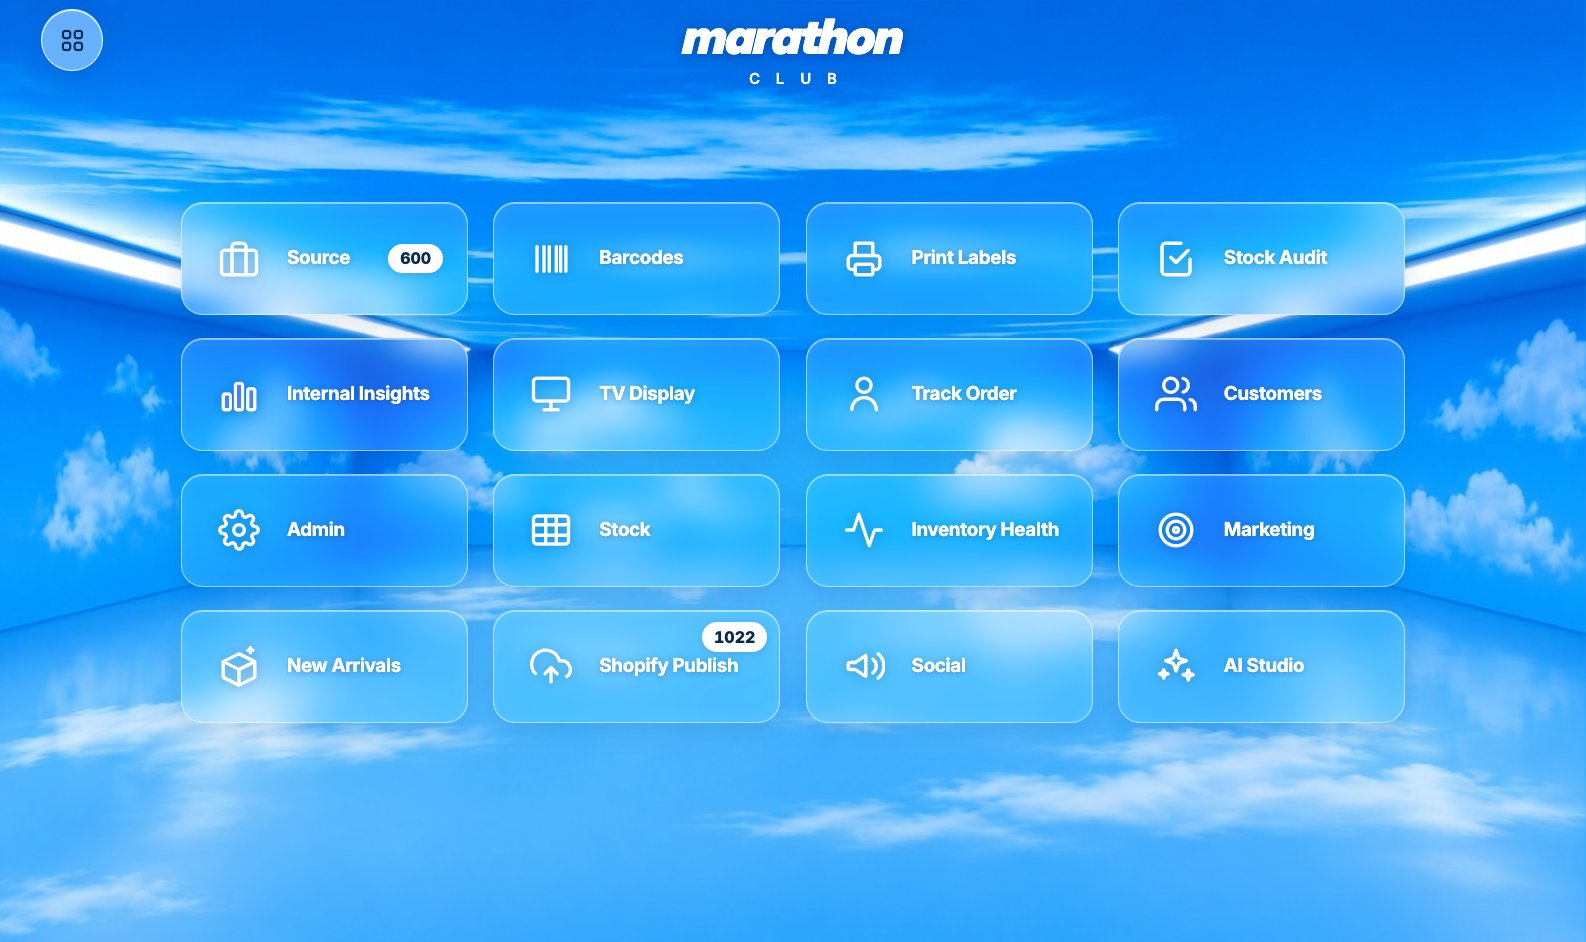
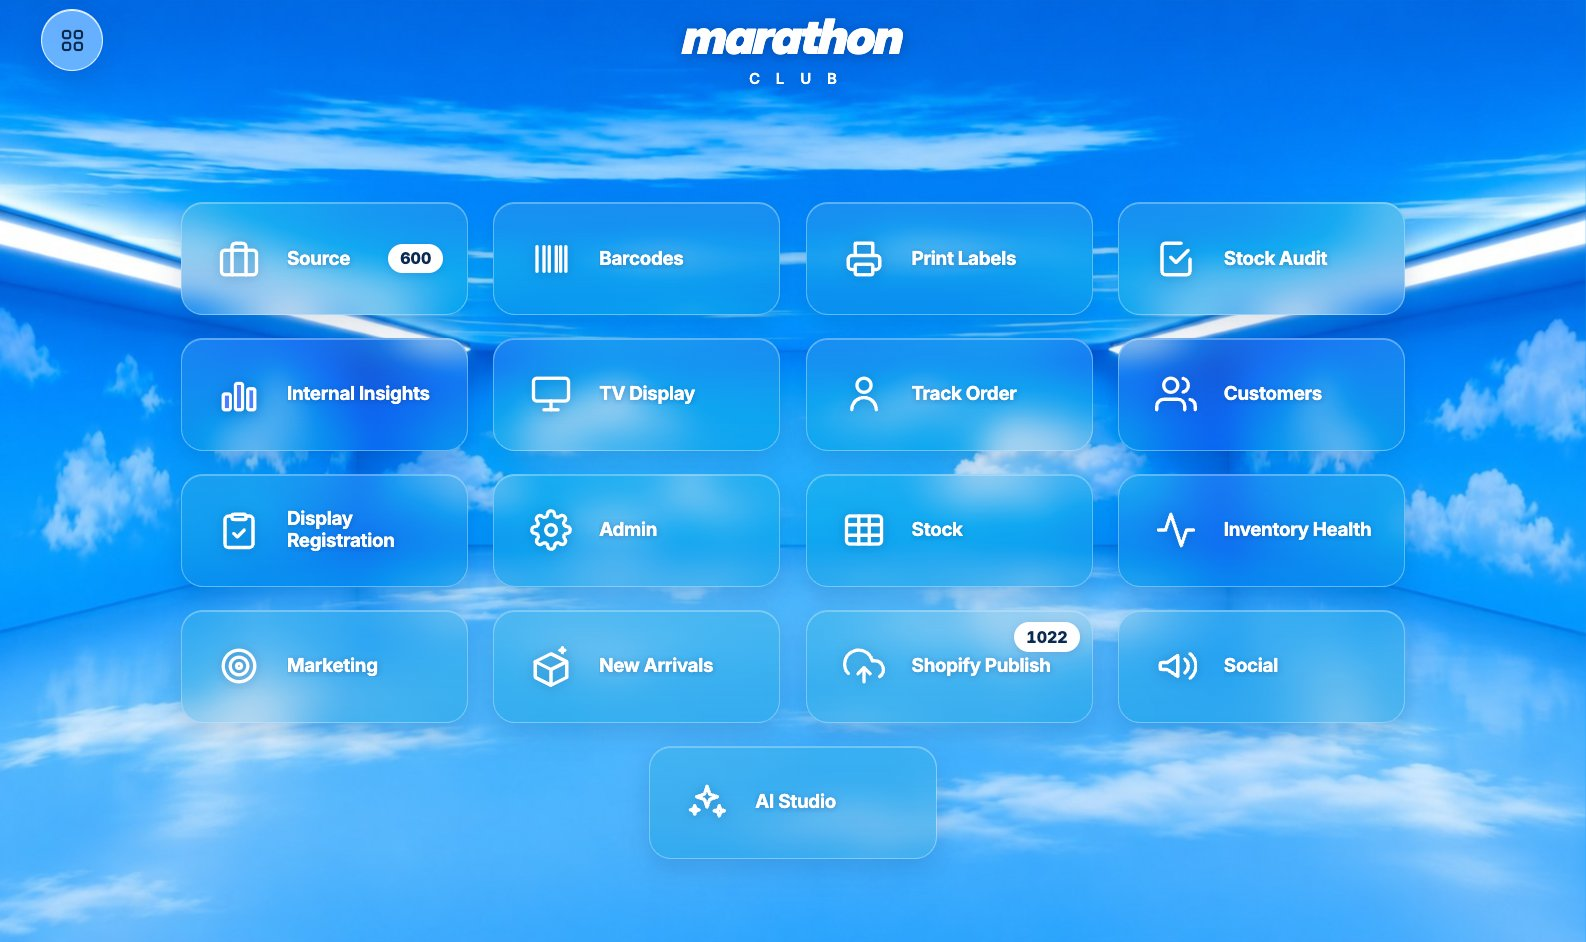
Admin view: Display Registration as a tile; ice-cold dimmed glass; last row centred
Same gate and screen as the old live card. Presentation only.

diff --git a/src/components/sky/SkyHome.jsx b/src/components/sky/SkyHome.jsx
@@ -201,15 +201,17 @@ html[data-sky="on"] #root .sky-hub__livecard button[style]:hover{background:rgba
   .sky-home[data-panel="admin"] .sky-logo--lg .sky-logo__m{font-size:3.03vw}
   .sky-home[data-panel="admin"] .sky-logo--lg .sky-logo__c{font-size:.95vw;margin-top:.63vw;font-style:normal;font-weight:600}
   .sky-hub{position:absolute;left:0;right:0;top:12.74vw;max-width:77.18vw;margin:0 auto;padding:0 0 40px}
-  .sky-hub__grid{grid-template-columns:repeat(4,minmax(0,1fr));gap:1.45vw 1.58vw}
+  /* flex, not grid: an unfinished last row sits centred, so the hub stays balanced */
+  .sky-hub__grid{display:flex;flex-wrap:wrap;justify-content:center;gap:1.45vw 1.58vw}
+  .sky-hub__grid>.sky-mini{flex:0 0 calc((100% - 3 * 1.58vw) / 4);width:calc((100% - 3 * 1.58vw) / 4)}
   .sky-mini{height:7.12vw;min-height:0;padding:0 1.2vw 0 2.27vw;gap:1.7vw;border-radius:1.39vw;
-    background:rgba(255,255,255,.1);border:1.5px solid rgba(255,255,255,.55);
-    box-shadow:inset 0 1px 0 rgba(255,255,255,.45),inset 0 0 14px rgba(255,255,255,.08),0 10px 26px rgba(10,60,140,.12);
-    -webkit-backdrop-filter:blur(16px) saturate(120%);backdrop-filter:blur(16px) saturate(120%);text-shadow:0 1px 6px rgba(0,40,110,.3)}
-  .sky-mini:hover{background:rgba(255,255,255,.18)}
+    background:linear-gradient(180deg,rgba(190,228,255,.13),rgba(120,180,240,.07));border:1.5px solid rgba(200,235,255,.42);
+    box-shadow:inset 0 1px 0 rgba(220,240,255,.35),0 10px 26px rgba(0,30,90,.14);
+    -webkit-backdrop-filter:blur(16px) saturate(125%) brightness(.94);backdrop-filter:blur(16px) saturate(125%) brightness(.94);text-shadow:0 1px 6px rgba(0,40,110,.3)}
+  .sky-mini:hover{background:linear-gradient(180deg,rgba(200,235,255,.2),rgba(140,195,245,.12))}
   .sky-mini__ic{width:2.65vw;height:2.65vw}
   .sky-mini__ic svg{width:2.65vw !important;height:2.65vw !important;stroke-width:1.9;filter:drop-shadow(0 1px 6px rgba(0,40,110,.3)) !important}
-  .sky-mini__nm{font-size:1.2vw;font-weight:700;letter-spacing:-.015em;white-space:nowrap}
+  .sky-mini__nm{font-size:1.2vw;font-weight:700;letter-spacing:-.015em;line-height:1.15;white-space:normal;display:-webkit-box;-webkit-line-clamp:2;-webkit-box-orient:vertical;overflow:hidden}
   .sky-mini__bd{position:absolute;right:1.51vw;top:50%;transform:translateY(-50%);min-width:0;height:1.89vw;padding:0 .76vw;border-radius:999px;
     font-size:1.01vw;font-weight:800;color:#0b2a52;background:#fff;border:0;box-shadow:0 2px 8px rgba(10,60,140,.16)}
   .sky-mini[data-corner="1"] .sky-mini__nm{overflow:visible}

diff --git a/src/App.jsx b/src/App.jsx
@@ -3535,6 +3535,9 @@ function RoleSelector({ onSelect, orders, returnsLog, products, hasPermission, c
       hasPermission(ROLE_TO_PERMISSION[ROLES.INSIGHTS]) && { key:"insights", icon:RoleIcons.insights, name:"Internal Insights", desc:"Business analytics", onClick:()=>onSelect(ROLES.INSIGHTS) },
       hasPermission(ROLE_TO_PERMISSION[ROLES.DISPLAY])  && { key:"display", icon:RoleIcons.display, name:"TV Display", desc:"Customer queue screen", onClick:()=>onSelect(ROLES.DISPLAY) },
       hasPermission(ROLE_TO_PERMISSION[ROLES.CUSTOMER]) && { key:"customer", icon:RoleIcons.customer, name:"Track Order", desc:"Live order status & timeline", onClick:()=>onSelect(ROLES.CUSTOMER) },
+      // Junid 5 Nov: Display Registration as a tile (its live card is off the
+      // hub) — same gate and same screen as the card.
+      (canAccessStock || isSuperAdmin) && { key:"display_reg", icon:RoleIcons.display_checks, name:"Display Registration", desc:"Register display units", onClick:()=>onSelect(ROLES.DISPLAY_REGISTRATION) },
     ].filter(Boolean) },
     { label: "Administration", cards: [
       hasPermission(ROLE_TO_PERMISSION[ROLES.CUSTOMERS_DB])     && { key:"customers", icon:RoleIcons.customers_db, name:"Customers", desc:"Customer database", onClick:()=>onSelect(ROLES.CUSTOMERS_DB) },

diff --git a/src/dev/skyHarness.jsx b/src/dev/skyHarness.jsx
@@ -56,6 +56,7 @@ function SampleLive({ title, body }) {
 // ?mock=1: the admin view with the 16 tools of Junid's 5 Nov mock-up, real icons.
 const MOCK_TOOLS = [["source", "Source", 600], ["barcodes", "Barcodes"], ["label_print", "Print Labels"], ["stock_audit", "Stock Audit"],
   ["insights", "Internal Insights"], ["display", "TV Display"], ["customer", "Track Order"], ["customers_db", "Customers"],
+  ["display_checks", "Display Registration"],
   ["admin", "Admin"], ["stock", "Stock"], ["health", "Inventory Health"], ["marketing", "Marketing"],
   ["new_arrivals", "New Arrivals"], ["shopify_publish", "Shopify Publish", 1022], ["social", "Social"], ["ai_studio", "AI Studio"]];
 function Home({ icons = null }) {
